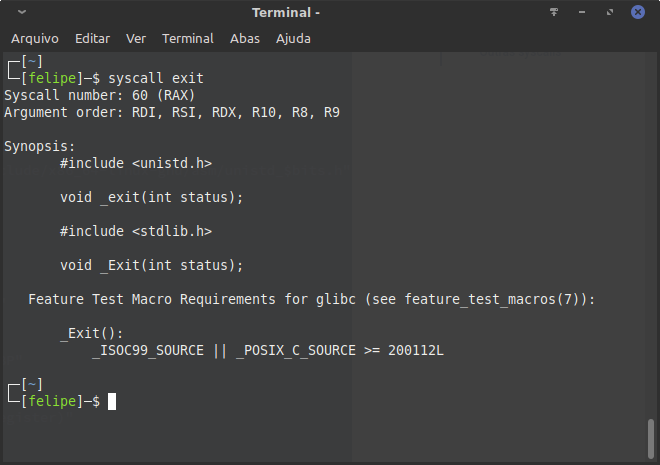
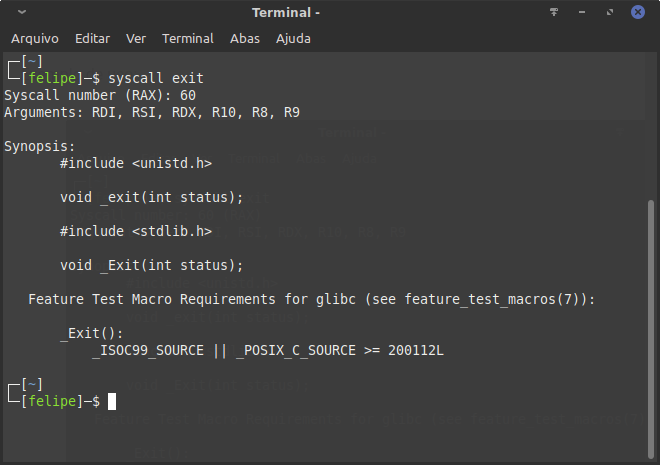
GitBook: [master] one page and 2 assets modified

diff --git a/a-base/syscall-no-linux.md b/a-base/syscall-no-linux.md
@@ -102,14 +102,15 @@ E para simplificar a consulta de syscalls no meu Linux eu implementei e uso a se
 ```bash
 function syscall() {
 	if [ -z "$1" ]; then
-			echo "Usage: syscall name [32|64]"
-			return 0
+		echo "Usage: syscall name [32|64]"
+		return 0
 	fi
 
 	name="$1"
 	bits="${2-64}"
-	number=$(grep -m1 "__NR_$name" "/usr/include/x86_64-linux-gnu/asm/unistd_$bits.h"\
-				| cut -d' ' -f3)
+	number=$(grep -m1 "__NR_$name" \
+			 "/usr/include/x86_64-linux-gnu/asm/unistd_$bits.h" \
+			 | cut -d' ' -f3)
 
 	[ -z "$number" ] && return 1
 
@@ -121,11 +122,20 @@ function syscall() {
 		arguments="EBX, ECX, EDX, ESI, EDI, EBP"
 	fi
 
-	echo "Syscall number: $number ($sysnumRegister)"
-	echo "Argument order: $arguments"
+	echo "Syscall number ($sysnumRegister): $number"
+	echo "Arguments: $arguments"
 	echo
 	echo "Synopsis:"
-	man 2 "$name" | awk '/SYNOPSIS/,/DESCRIPTION/{ if ($1 != "SYNOPSIS" && $1 != "DESCRIPTION") {  print $0 } }'
+
+	awkCode='
+		/SYNOPSIS/,/DESCRIPTION/{
+			if ($1 != "SYNOPSIS" && $1 != "DESCRIPTION") {
+				print $0
+			}
+		}
+	'
+
+	man 2 "$name" | awk "$awkCode"
 
 	return 0
 }
